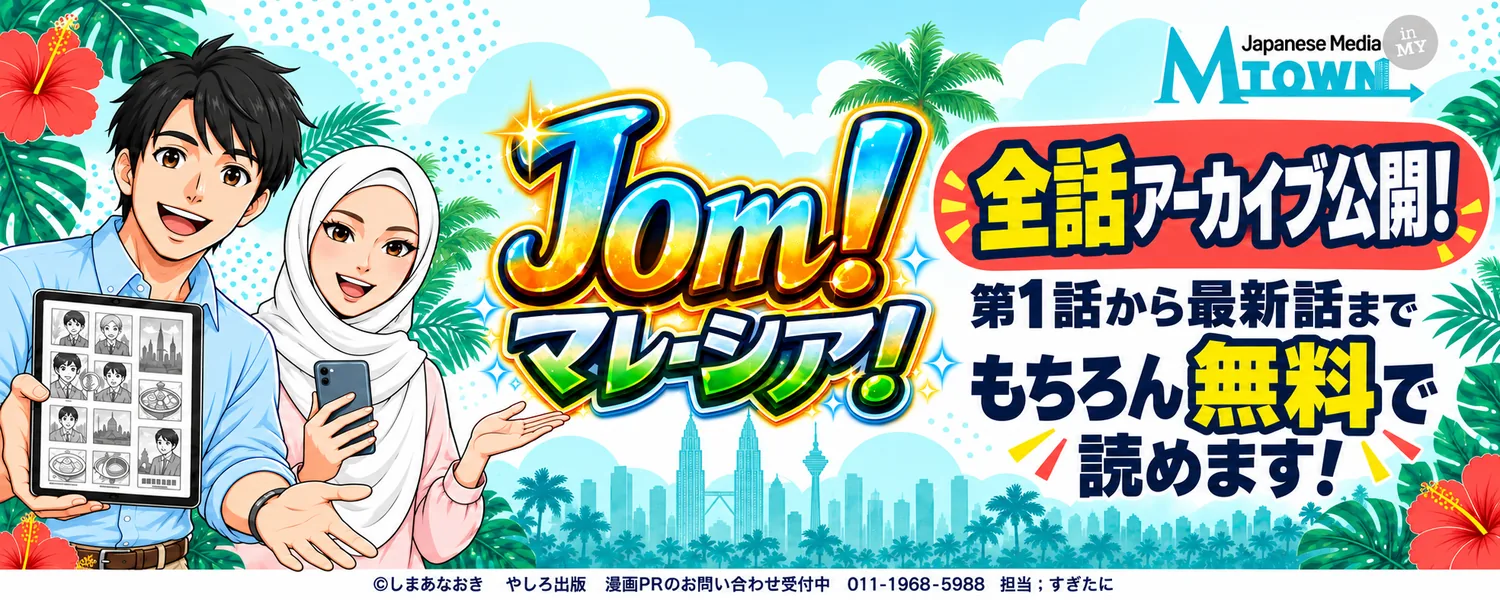
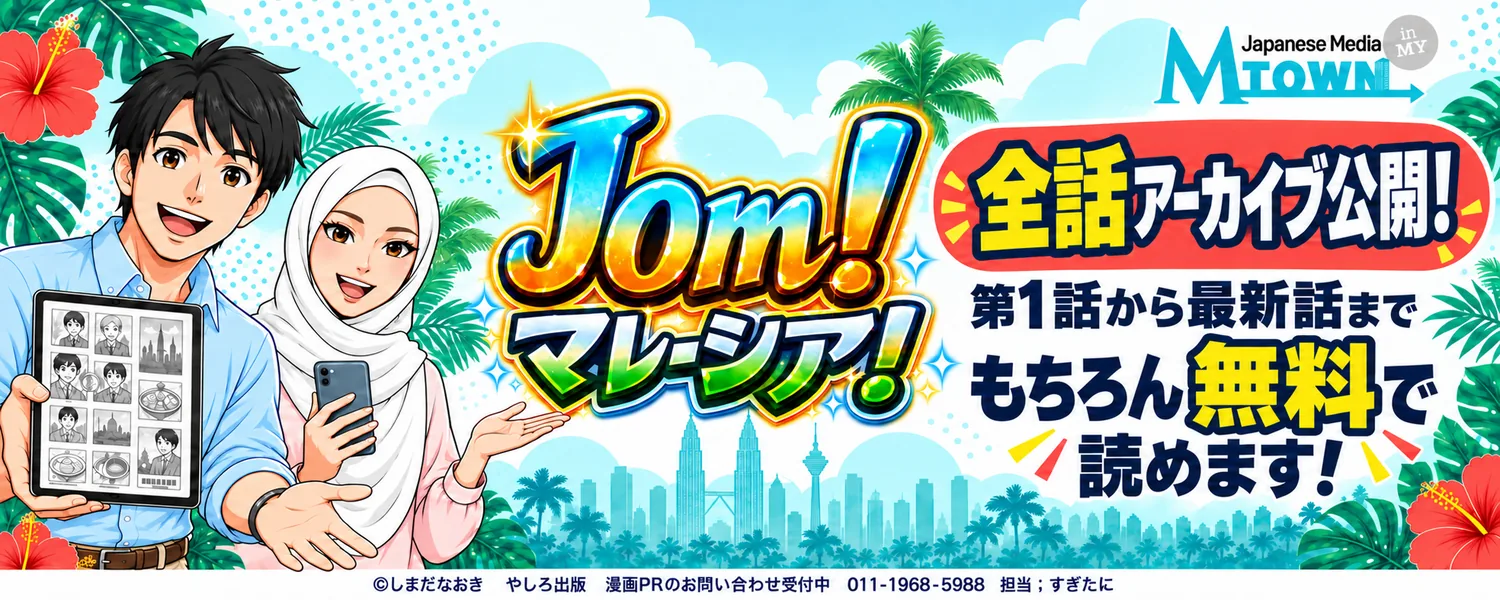
PCバナーを新版に差し替え＋『リンク』タブを追加(登場人物とおといあわせの間・Mtownロゴ+リンク)
- HP素材/PCバナー.png から assets/banner-pc.webp を再生成（prep_assets.pyの参照名も更新）
- タブ『リンク』新設。site.js の SITE.links に {label,url,logo} を並べると表示（初期値: Mtown）

diff --git a/index.html b/index.html
@@ -193,6 +193,20 @@
   .cast-sub{font-size:.82rem;color:var(--brand-ink);font-weight:700;margin-top:3px}
   .cast-desc{font-size:.88rem;color:var(--ink-soft);line-height:1.65;margin-top:5px}
 
+  /* リンクタブ */
+  .link-list{display:grid;gap:12px;max-width:460px}
+  .link-card{
+    display:flex;align-items:center;gap:14px;text-decoration:none;
+    background:var(--paper);border:1px solid var(--line);border-radius:12px;
+    box-shadow:var(--shadow);padding:14px 16px;transition:background .12s;
+  }
+  .link-card:hover{background:var(--wash)}
+  .link-card img{height:30px;width:auto;flex-shrink:0}
+  .link-card .lk-body{flex:1;min-width:0}
+  .link-card .lk-label{font-family:"Zen Maru Gothic",sans-serif;font-weight:700;font-size:.98rem;color:var(--ink)}
+  .link-card .lk-url{font-size:.78rem;color:var(--ink-soft);overflow:hidden;text-overflow:ellipsis;white-space:nowrap}
+  .link-card .lk-arrow{color:var(--brand-ink);font-size:1.1rem;flex-shrink:0}
+
   .contact-card{
     background:var(--wash);border:1px solid var(--line);border-radius:12px;
     padding:22px 22px;max-width:440px;
@@ -304,6 +318,7 @@
       <div class="tablist" role="tablist" id="tablist">
         <button role="tab" id="tb-about"   aria-controls="tp-about"   aria-selected="true">この漫画について</button>
         <button role="tab" id="tb-cast"    aria-controls="tp-cast"    aria-selected="false">登場人物</button>
+        <button role="tab" id="tb-links"   aria-controls="tp-links"   aria-selected="false">リンク</button>
         <button role="tab" id="tb-contact" aria-controls="tp-contact" aria-selected="false">おといあわせ</button>
       </div>
 
@@ -314,6 +329,10 @@
 
       <div class="tabpanel" role="tabpanel" id="tp-cast" aria-labelledby="tb-cast" hidden>
         <div class="cast-grid" id="cast-grid"></div>
+      </div>
+
+      <div class="tabpanel" role="tabpanel" id="tp-links" aria-labelledby="tb-links" hidden>
+        <div class="link-list" id="link-list"></div>
       </div>
 
       <div class="tabpanel" role="tabpanel" id="tp-contact" aria-labelledby="tb-contact" hidden>
@@ -439,6 +458,15 @@
       row.appendChild(d);
     });
 
+    var LINKS = SITE.links || [];
+    document.getElementById("link-list").innerHTML = LINKS.map(function(k){
+      return '<a class="link-card" href="'+esc(k.url)+'" target="_blank" rel="noopener">'+
+        (k.logo ? '<img src="'+esc(k.logo)+'" alt="">' : '')+
+        '<span class="lk-body"><span class="lk-label">'+esc(k.label||k.url)+'</span>'+
+        '<span class="lk-url">'+esc(k.url)+'</span></span>'+
+        '<span class="lk-arrow" aria-hidden="true">↗</span></a>';
+    }).join("");
+
     var C = SITE.contact || {};
     var rows = "";
     rows += '<div><dt>発行</dt><dd>'+esc(C.org||"")+'</dd></div>';
@@ -449,7 +477,7 @@
   })();
 
   /* ---------- タブ切替 ---------- */
-  var tabIds = ["about","cast","contact"];
+  var tabIds = ["about","cast","links","contact"];
   function selectTab(name){
     tabIds.forEach(function(t){
       var on = t===name;

diff --git a/site.js b/site.js
@@ -19,6 +19,11 @@ window.SITE = {
     }
   },
 
+  /* タブ「リンク」。上から順に表示。logo は assets/ 内の画像ファイル名（省略可） */
+  links: [
+    { label: "Mtown（マレーシア情報誌）", url: "https://www.mtown.my/", logo: "assets/mtown-logo.webp" }
+  ],
+
   /* タブ「おといあわせ」 */
   contact: {
     heading: "お問い合わせはコチラ",

diff --git a/scripts/prep_assets.py b/scripts/prep_assets.py
@@ -111,7 +111,7 @@ def do_hpchar(jp, slug):
 
 if __name__ == "__main__":
     print("バナー:")
-    do_banner("PC用バナー.png", "banner-pc.webp", 1500)
+    do_banner("PCバナー.png", "banner-pc.webp", 1500)
     do_banner("スマホ用バナー.png", "banner-sp.webp", 960)
     print("ロゴ:")
     do_logo("Mtownロゴ.jpeg", "mtown-logo.webp", 560)
